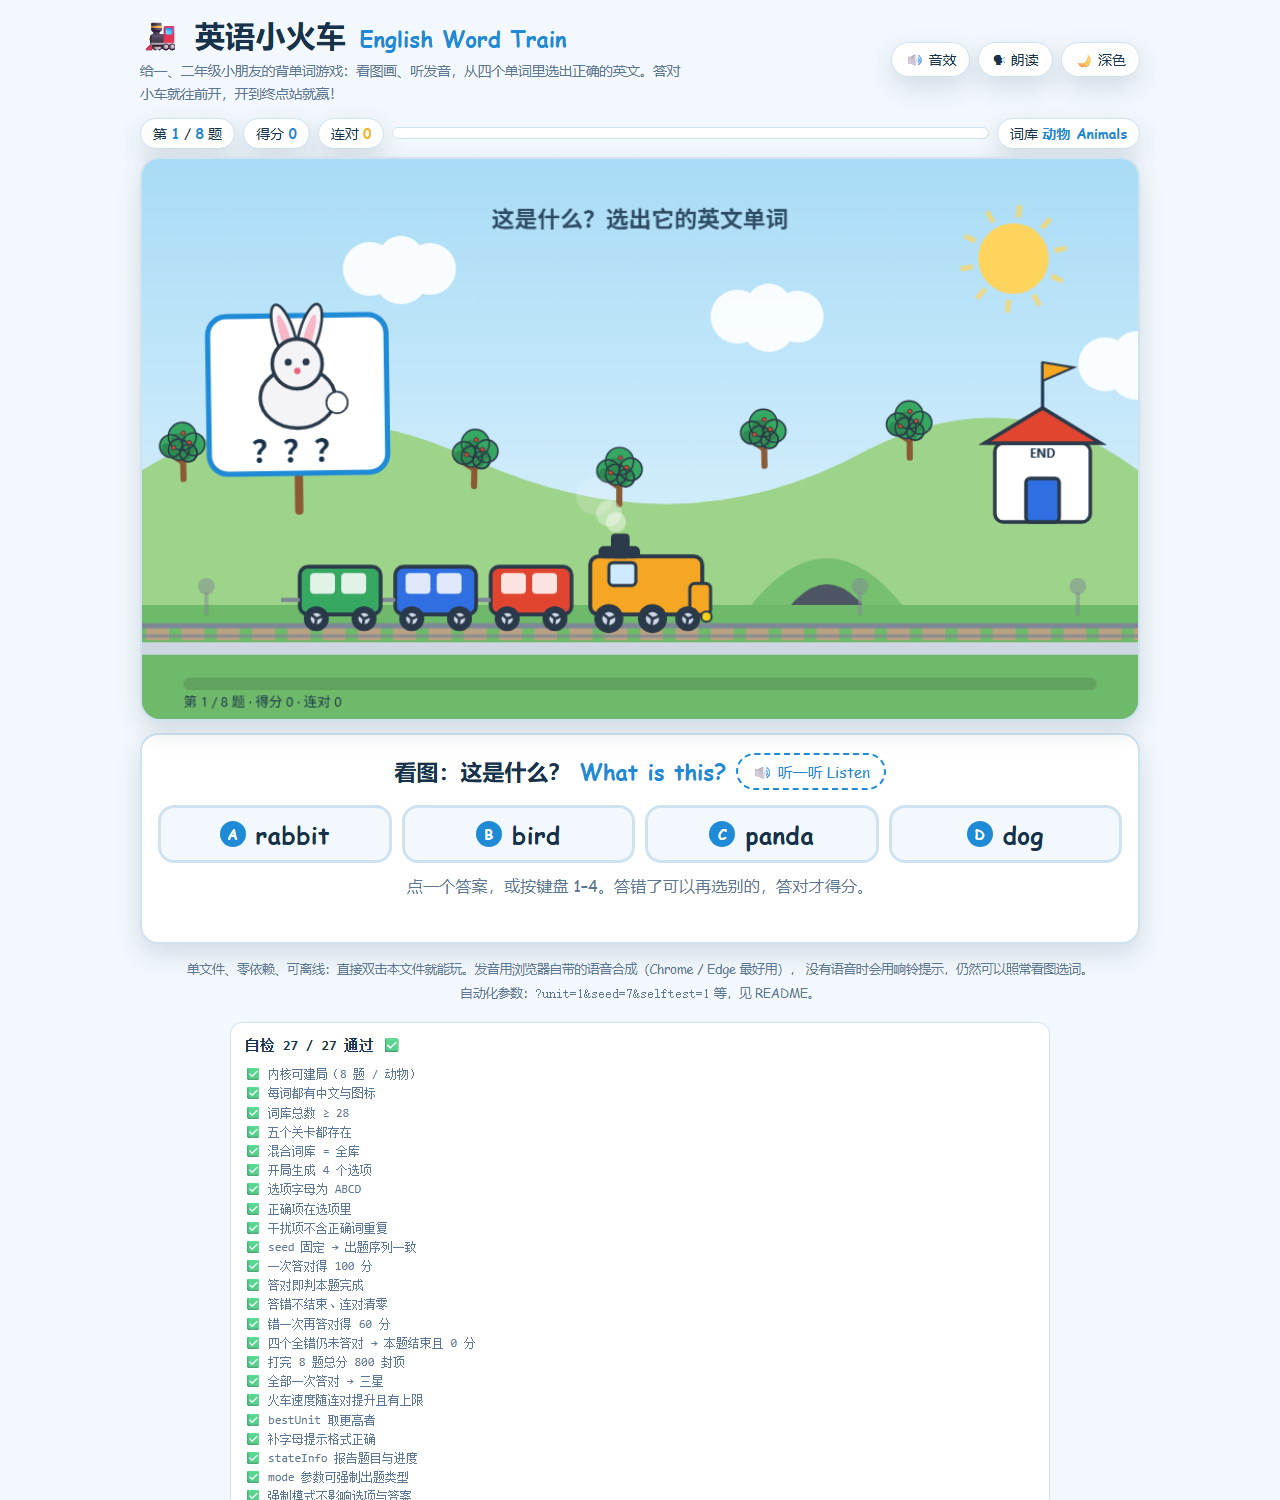
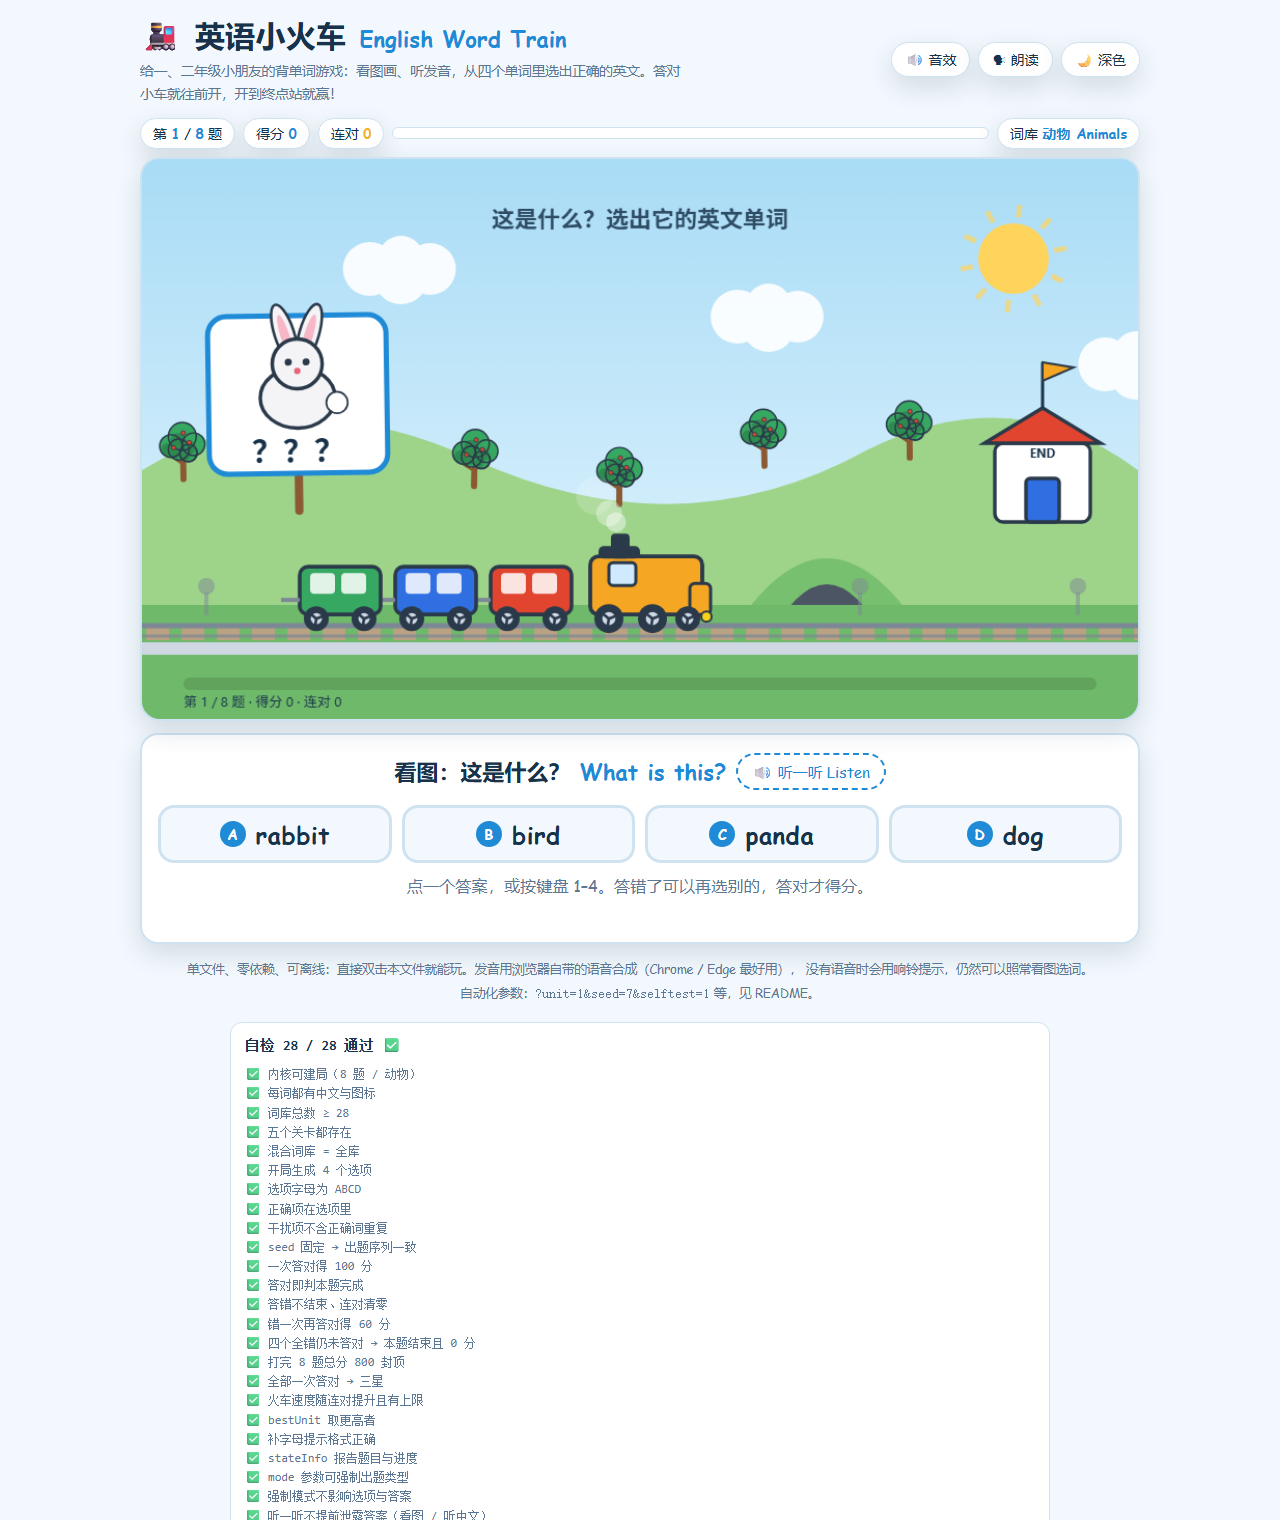
feat(english-game): read the prompt, not the answer, before a pick
- 「听一听」现在只念题面：看图 / 听中文读中文意思，补字母读英文（那本来就是听力题），
  答对之后才读单词和例句，避免孩子点一下就把答案听出来
- 中文走 zh-CN、英文走 en-US，英文语音不再尝试读中文
- 新增 ?word=apple 把某个词固定为第一题，截图与自动化出题从此可复现
- solve=N 停在最后一题的已答对画面（原来会一路跳到结算）
- 去掉页内没有调用点的 wordFromIndex，改测 forceFirst
- 内核断言 120 -> 126，页内自检 27 -> 28，重抓全部 after-* 截图

diff --git a/english-game.html b/english-game.html
@@ -341,11 +341,14 @@ function trainSpeedFor(p, dt, streak, done){
   return p + (target - p) * k;
 }
 
-/* 按序号取单词（供混合模式与自动化用），index 循环取模 */
-function wordFromIndex(pool, list, index){
-  const arr = list && list.length ? list : unitWords(pool);
-  const i = ((index | 0) % arr.length + arr.length) % arr.length;
-  return arr[i];
+/* 把指定单词固定为第一题（?word=apple，自动化出题与截图用）。
+ * 该词不在当前词库里时不做任何改动，保持原有随机序列。 */
+function forceFirst(unit, order, en){
+  const list = unitWords(unit);
+  if (!list.some(w => w.en === en)) return order;
+  order[0] = list.find(w => w.en === en);
+  for (let i = 1; i < order.length; i++) if (order[i].en === en) order[i] = list.find(w => w.en !== en);
+  return order;
 }
 
 /* ---------- 可完整序列化的游戏状态 ---------- */
@@ -356,7 +359,9 @@ function makeState(cfg){
   const seed = (cfg.seed === undefined ? 20260101 : cfg.seed | 0) >>> 0;
   const rng = mulberry32(seed);
   const order = orderWord(unit, rng, rounds);
-  return { unit, rounds, seed, mode: MODES.indexOf(cfg.mode) >= 0 ? cfg.mode : null,
+  const forced = String(cfg.word || '').toLowerCase();
+  if (forced) forceFirst(unit, order, forced);
+  return { unit, rounds, seed, word: forced || null, mode: MODES.indexOf(cfg.mode) >= 0 ? cfg.mode : null,
            started: false, over: false, i: 0, score: 0, streak: 0,
            bestStreak: 0, list: order.map(w => w.en), rng: rng, order: order, round: null };
 }
@@ -365,6 +370,7 @@ function startGame(st){
   st.started = true; st.over = false; st.i = 0; st.score = 0; st.streak = 0; st.bestStreak = 0;
   st.rng = mulberry32(st.seed);
   st.order = orderWord(st.unit, st.rng, st.rounds);
+  if (st.word) forceFirst(st.unit, st.order, st.word);
   st.list = st.order.map(w => w.en);
   st.round = newRound(st.order[0], unitWords(st.unit), st.rng, st.mode);
   return st;
@@ -1156,16 +1162,36 @@ function sfx(kind){
 }
 
 /* ---------- 语音朗读 ---------- */
-function speak(text){
+/* 中文用 zh-CN、英文用 en-US，否则英文语音会把中文读成乱码 */
+function speak(text, lang){
   const synth = window.speechSynthesis;
   if (!synth || !text) { sfx('click'); return false; }
+  const s = String(text);
   try {
     synth.cancel();
-    const u = new SpeechSynthesisUtterance(String(text));
-    u.lang = 'en-US'; u.rate = 0.82; u.pitch = 1.15;
+    const u = new SpeechSynthesisUtterance(s);
+    u.lang = lang || (/[\u4e00-\u9fff]/.test(s) ? 'zh-CN' : 'en-US');
+    u.rate = u.lang === 'zh-CN' ? 0.9 : 0.8;
+    u.pitch = 1.15;
     synth.speak(u);
     return true;
   } catch (e){ sfx('click'); return false; }
+}
+
+/* 题面朗读：没答对之前只读「题面」，绝不把答案念出来。
+ * 看图 / 听中文 → 读中文意思；补字母 → 读英文单词（这本身就是听力题）；
+ * 答对之后 → 读单词和例句。 */
+function promptSpeech(){
+  const r = st && st.round;
+  if (!r) return null;
+  if (stateInfo(st).answered) return { text: r.word.en + '. ' + r.word.sentence, lang: 'en-US' };
+  if (r.mode === 'spell') return { text: r.word.en, lang: 'en-US' };
+  return { text: r.word.cn, lang: 'zh-CN' };
+}
+function speakPrompt(){
+  const p = promptSpeech();
+  if (!p) return false;
+  return speak(p.text, p.lang);
 }
 
 /* ---------- DOM ---------- */
@@ -1323,7 +1349,7 @@ function finish(){
 }
 
 function startGameUI(){
-  st = startGame(makeState({ unit: pickUnit, rounds: ROUND_COUNT, seed: seedFor(), mode: qs.get('mode') }));
+  st = startGame(makeState({ unit: pickUnit, rounds: ROUND_COUNT, seed: seedFor(), mode: qs.get('mode'), word: qs.get('word') }));
   els.menu.classList.add('hidden'); els.over.classList.add('hidden');
   speed = 1; scroll = 0; trainPos = 0; trainPosShow = 0; cardFly.length = 0; banner = null;
   render();
@@ -1334,20 +1360,25 @@ function seedFor(){
   return isFinite(s) ? s : Math.floor(Math.random() * 1e6);
 }
 
-/* 无人值守作答：solve=N 连续答对 N 题（miss=M 让前 M 题先答错一次再看对），
- * 用于无头截图与自动化验证，不开口、不响铃，完全按 seed 复现。 */
+/* 无人值守作答：solve=N 连答 N 题（miss=M 让前 M 题先答错一次再看对），
+ * 用于无头截图与自动化验证，不开口、不响铃，完全按 seed 复现。
+ * 答满 N 题后停在最后一题的「已答对」画面上（不自动跳题）；
+ * N ≥ 题数时打完整局并弹出结算。 */
 function silentSolve(n, miss){
   if (!st || !st.started) return st ? stateInfo(st) : null;
   const want = n === undefined ? st.rounds : Math.max(0, n | 0);
   const bad = Math.max(0, miss | 0);
+  const answer = () => {
+    const L = LETTERS[st.round.options.findIndex(o => o.word.en === st.round.word.en)];
+    choose(st, L);
+  };
   for (let i = 0; i < want && !st.over; i++){
     if (i < bad){
       const w = st.round.options.find(o => o.word.en !== st.round.word.en);
       if (w) choose(st, w.letter);
     }
-    const L = LETTERS[st.round.options.findIndex(o => o.word.en === st.round.word.en)];
-    choose(st, L);
-    advance(st);
+    answer();
+    if (i < want - 1 || want >= st.rounds) advance(st);   // 最后一题留在屏幕上等孩子点「下一题」
   }
   if (st.over) finish(); else render();
   trainPos = st ? stateInfo(st).progress : 0; trainPosShow = trainPos;
@@ -1373,12 +1404,8 @@ els.menuBtn.addEventListener('click', () => { els.over.classList.add('hidden'); 
 els.next.addEventListener('click', next);
 els.theme.addEventListener('click', toggleTheme);
 els.sound.addEventListener('click', toggleSound);
-els.speak.addEventListener('click', () => {
-  if (!st || !st.round) return;
-  if (st.round.mode === 'spell' || stateInfo(st).answered) speak(st.round.word.en);
-  else { speak(st.round.word.cn); speak(st.round.word.en); }
-});
-els.speakTop.addEventListener('click', () => { if (st && st.round) speak(st.round.word.en); });
+els.speak.addEventListener('click', speakPrompt);
+els.speakTop.addEventListener('click', speakPrompt);
 
 document.addEventListener('keydown', e => {
   const k = e.key;
@@ -1457,6 +1484,15 @@ function runSelftest(){
     const q = startGame(makeState({ unit:'animals', rounds:4, seed:3, mode:'spell' }));
     return q.round.options.length === 4 && q.round.options[q.round.answer].word.en === q.round.word.en;
   });
+  T('听一听不提前泄露答案（看图 / 听中文）', () => {
+    return ['pic','cn'].every(m => {
+      const keep = st;
+      st = startGame(makeState({ unit:'animals', rounds:4, seed:31, mode:m }));
+      const p = promptSpeech();
+      const leak = !!p && String(p.text).toLowerCase() === st.round.word.en.toLowerCase();
+      st = keep; return !leak;
+    });
+  });
   T('画布非空白（天空已绘制）', () => {
     draw();
     const d = g.getImageData(10, 10, 1, 1).data;
@@ -1485,7 +1521,7 @@ window.ewt = {
   state: () => st ? stateInfo(st) : null,
   raw: () => st,
   api: { makeState, startGame, choose, advance, stateInfo, starsFor, scoreFor, trainSpeedFor,
-         unitWords, pickOptions, distractFor, firstLetterHint, bestUnit, maxScore, nextIndex, wordFromIndex, isDone, LETTERS, WORDS, UNITS },
+         unitWords, pickOptions, distractFor, firstLetterHint, bestUnit, maxScore, nextIndex, forceFirst, isDone, LETTERS, WORDS, UNITS, MODES },
   start: (o) => { pickUnit = (o && o.unit) || pickUnit; st = startGame(makeState(Object.assign({ unit: pickUnit, rounds: ROUND_COUNT, seed: 7 }, o || {})));
                   els.menu.classList.add('hidden'); els.over.classList.add('hidden'); render(); return stateInfo(st); },
   pick: (L) => pick(L),
